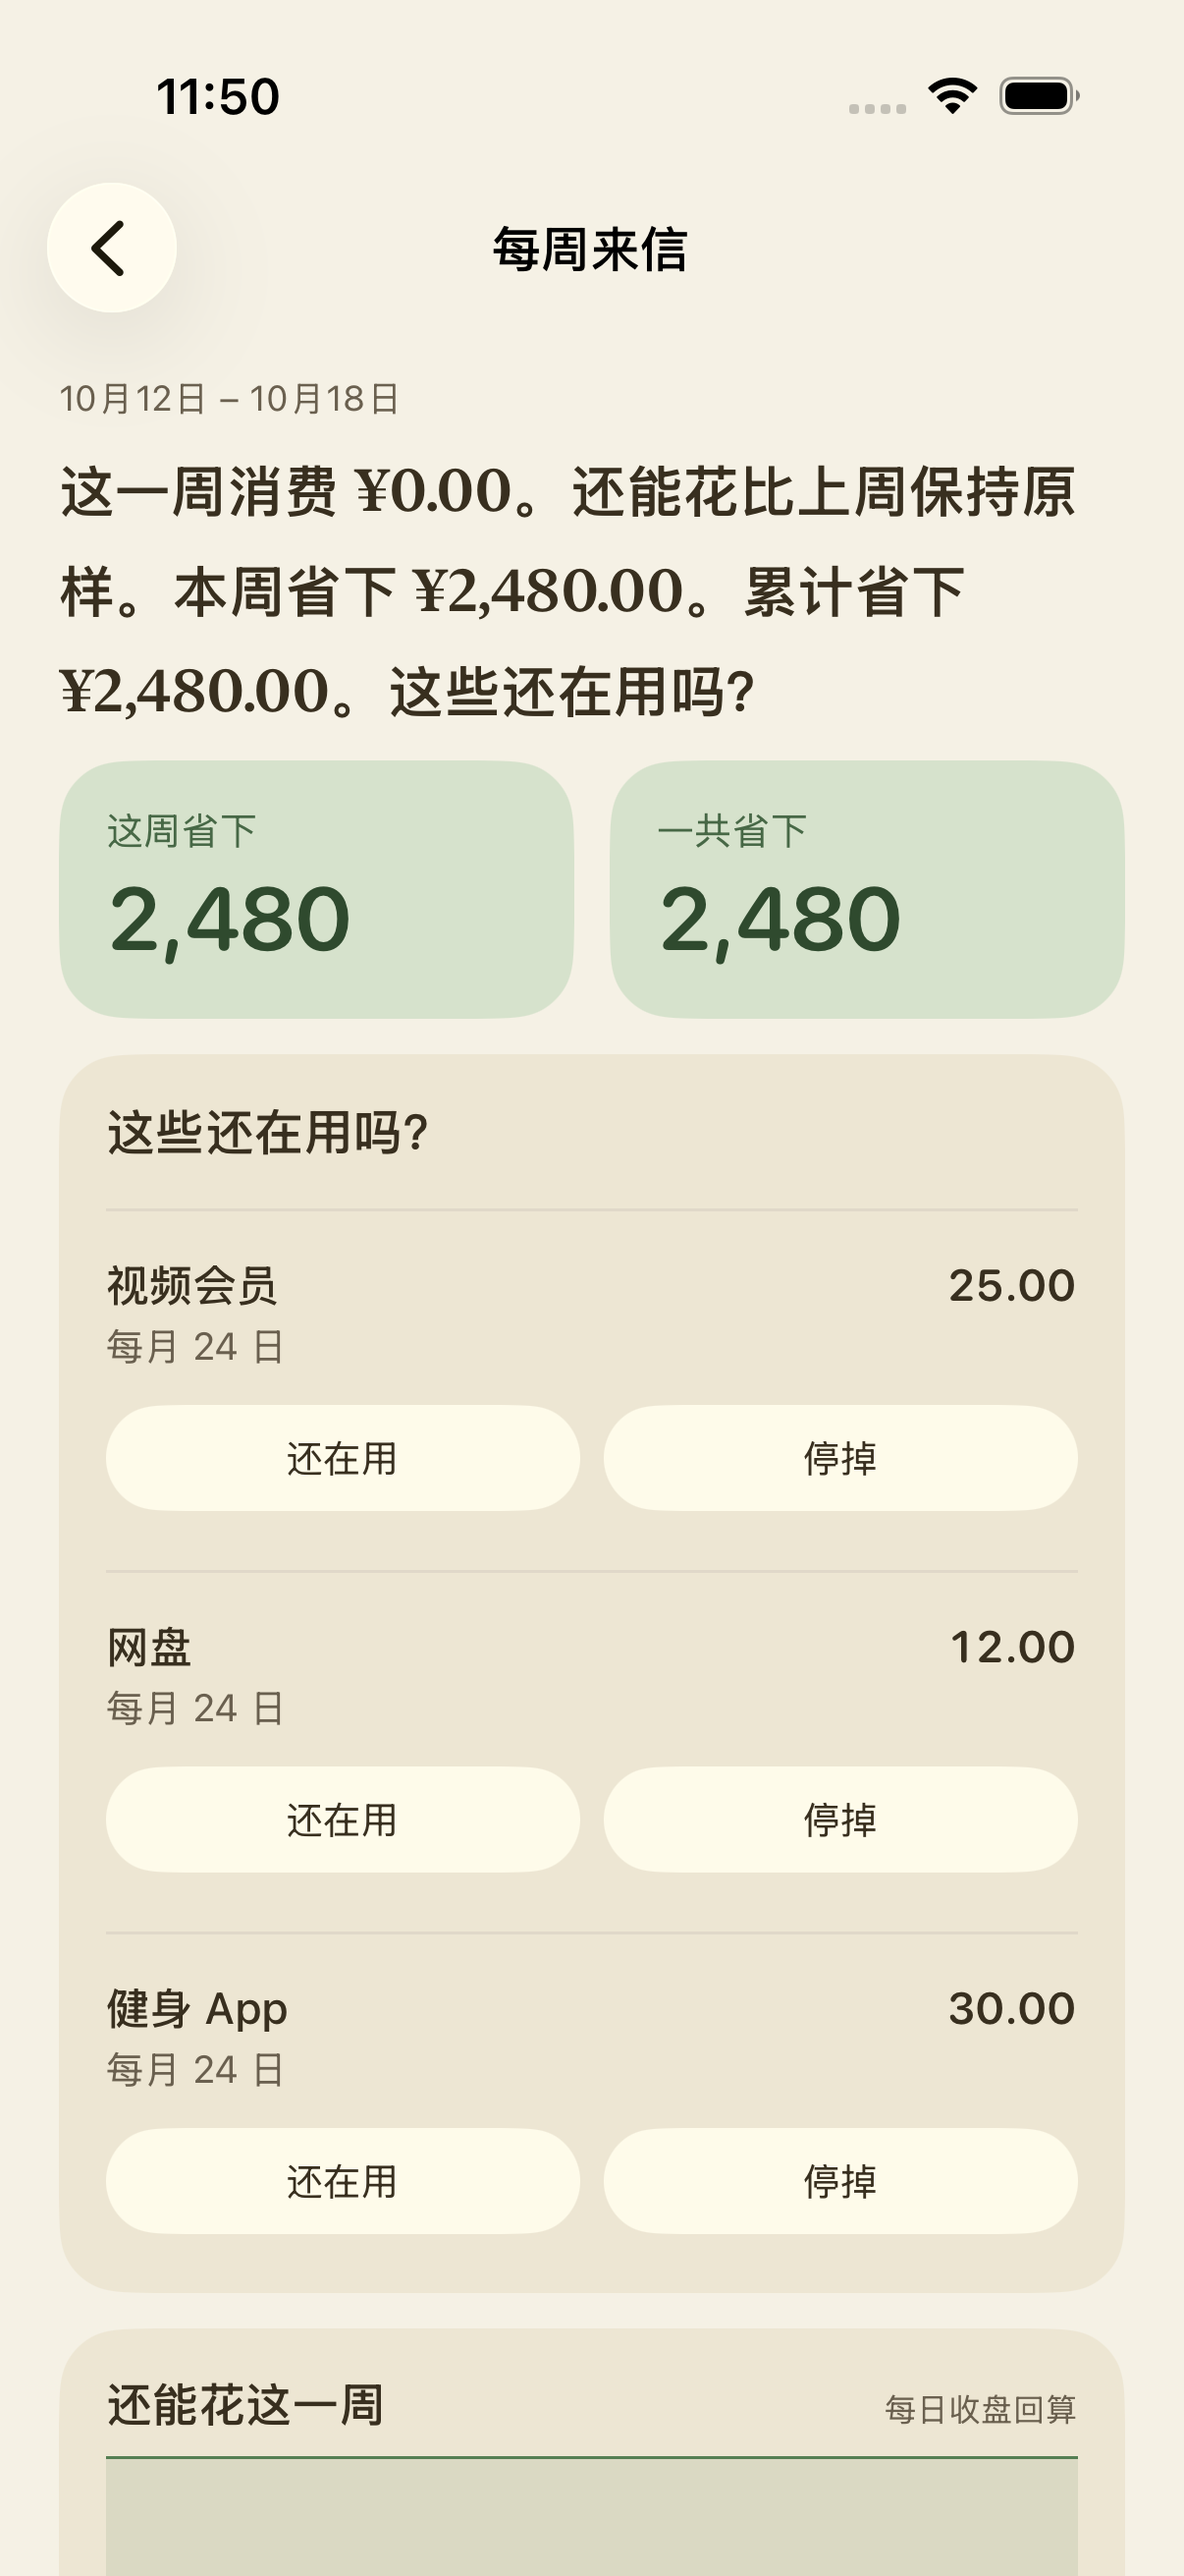
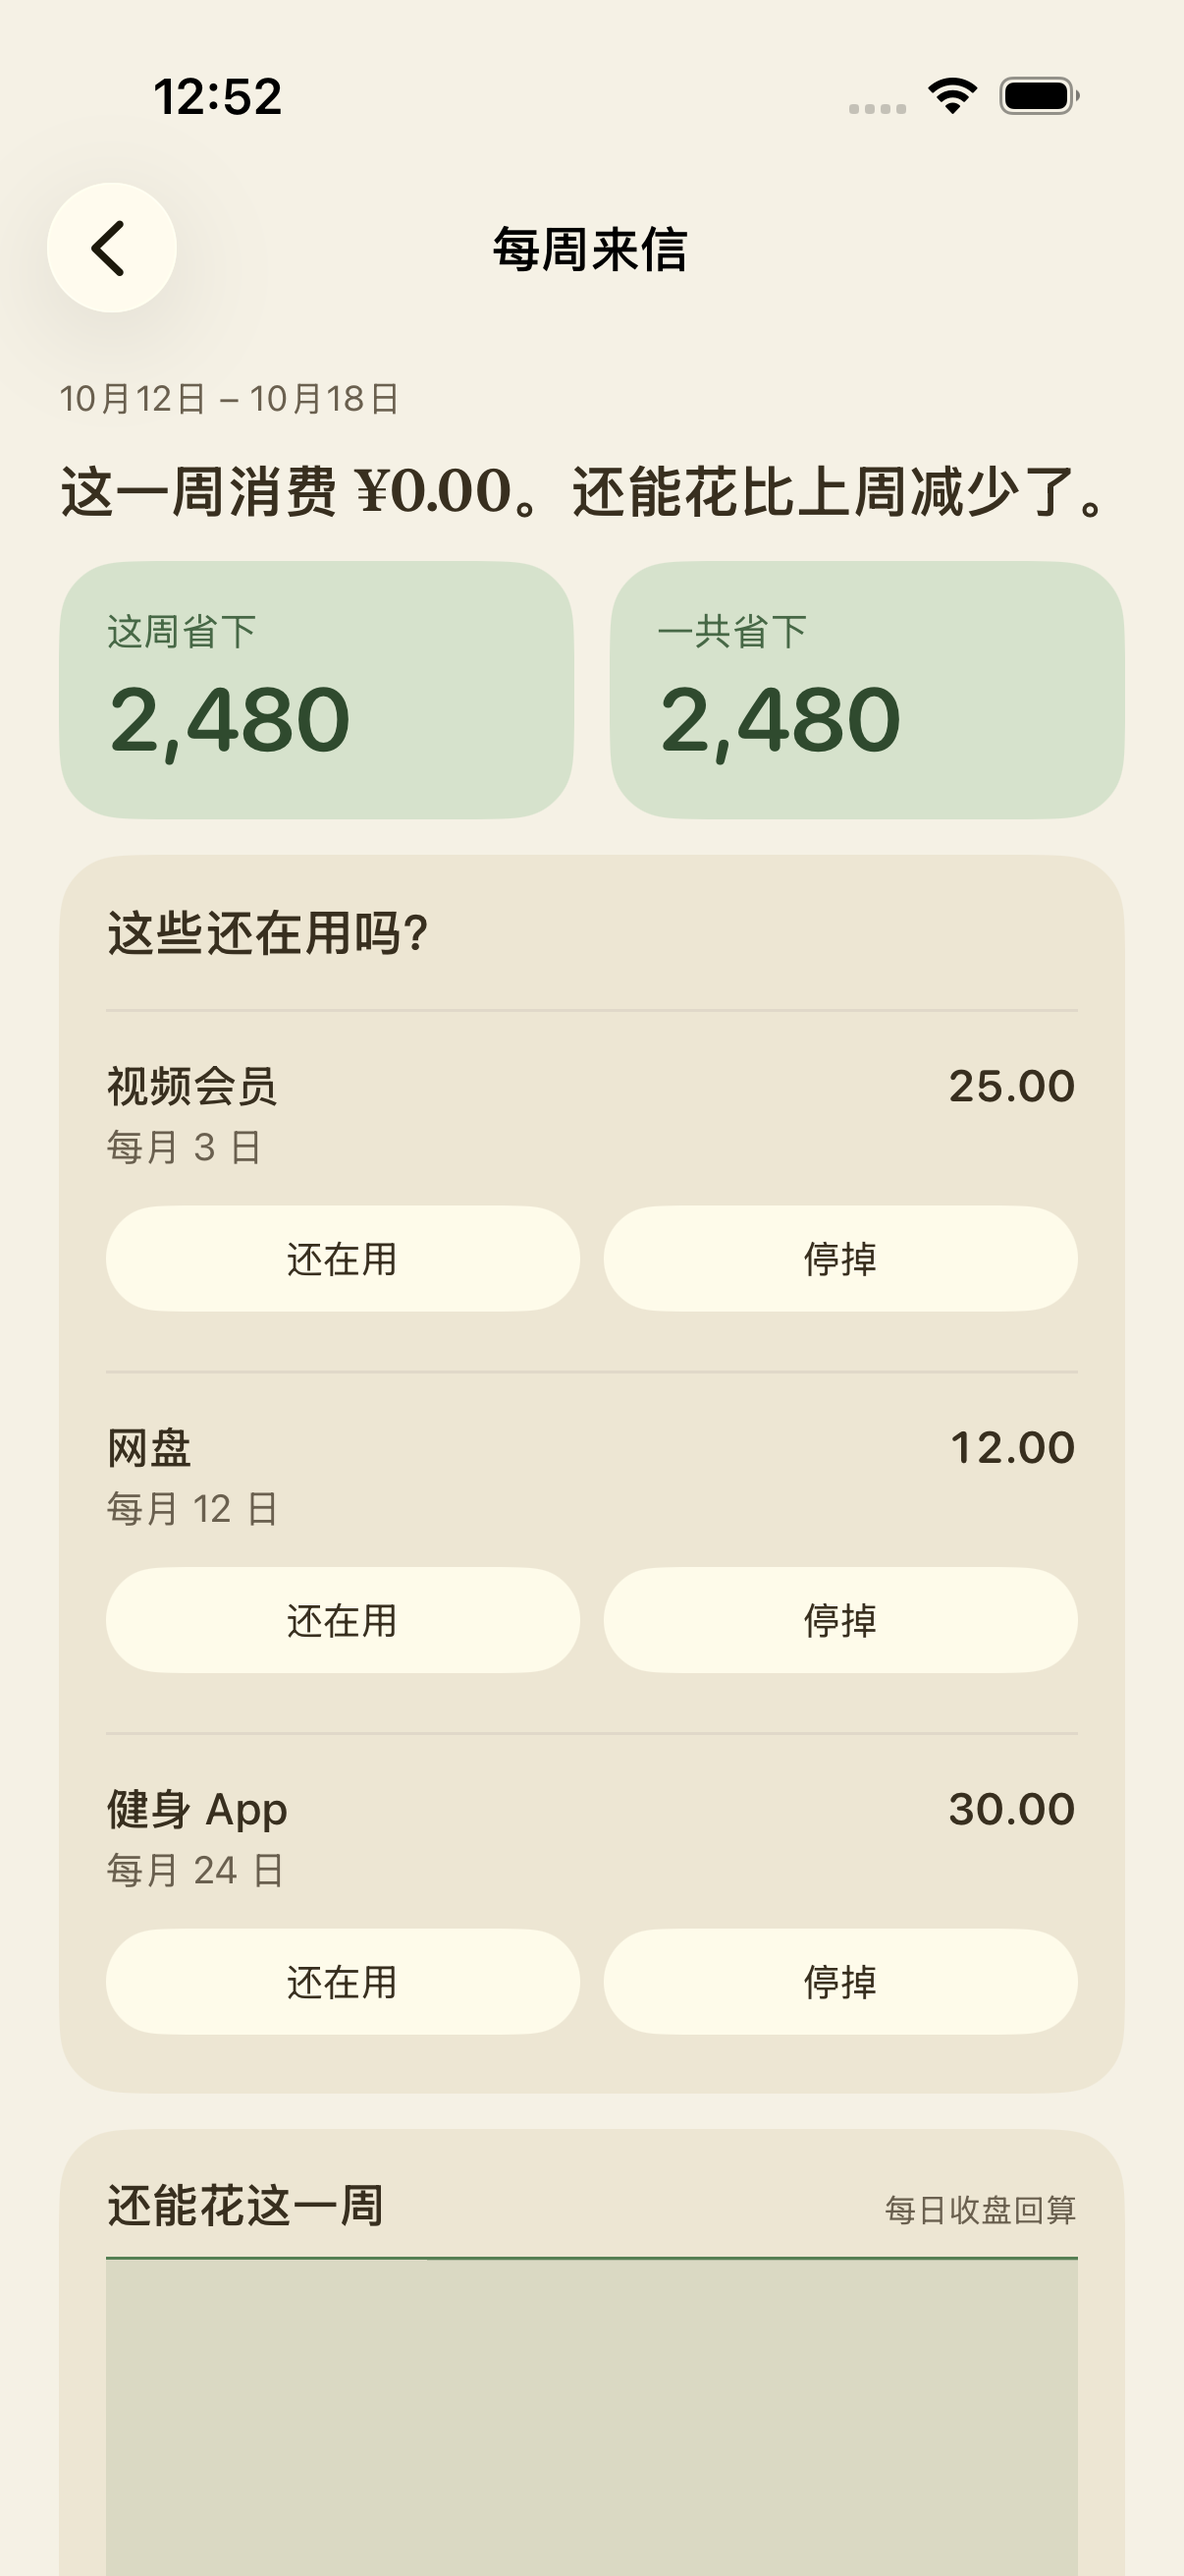
chore: 第十五轮截图更新为 2a51c45

diff --git a/.verification/v15/README.md b/.verification/v15/README.md
@@ -1,6 +1,6 @@
 # 第十五轮截图 · 2026-10-23
 
-feat/butler-saving-core（57ac7bf），Debug，iOS 模拟器 iPhone 17 Pro / iOS 26.4（新建的独立模拟器，避开同时在跑的另一组测试），浅色、默认字号。全部用 UITestSupport 合成夹具与脚本化回复，没有联网、没有调用付费 API。
+feat/butler-saving-core（2a51c45），Debug，iOS 模拟器 iPhone 17 Pro / iOS 26.4（新建的独立模拟器，避开同时在跑的另一组测试），浅色、默认字号。全部用 UITestSupport 合成夹具与脚本化回复，没有联网、没有调用付费 API。
 
 | 文件 | 内容 | 来源 |
 |---|---|---|
@@ -8,11 +8,11 @@ feat/butler-saving-core（57ac7bf），Debug，iOS 模拟器 iPhone 17 Pro / iOS
 | judge-wait | 结论：等等再说 | testJudgeWaitScreenshotFixture |
 | judge-buy | 结论：买吧 | testJudgeBuyScreenshotFixture |
 | judge-skip | 结论：先别买（降噪耳机，差 620） | testJudgeSkipScreenshotFixture |
-| wishlist-cool | 心愿单：省下的、冷静期到期卡、冷静中 | testWishlistCoolScreenshotFixture（测试在第 127 行断言失败时的截图） |
+| wishlist-cool | 心愿单：省下的、冷静期到期卡、冷静中 | testWishlistCoolScreenshotFixture |
 | letter-saving | 每周来信：省下的、这些还在用吗 | testLetterSavingScreenshotFixture |
 | profile-progress | 我的消费观（克制进度） | testProfileRevisitScreenshotFixture |
 | profile-revisit-opening | 再聊页开场 | testProfileRevisitScreenshotFixture |
-| profile-revisit-just-sent | 再聊页点发送后约 0.1 秒 | 测试运行时 simctl 录屏抽帧 |
+| profile-revisit-just-sent | 再聊页点发送后、回复到达前（YUBAI_UI_PROFILE_REPLY_DELAY=3） | testProfileRevisitScreenshotFixture |
 | profile-revisit-reply | 再聊页收到回复后 | testProfileRevisitScreenshotFixture |
 | now-restrain-near | 现在页「外卖 · 本周第 3 次」 | profile-revisit 夹具 simctl 启动后截屏 |
 | subcategory-shopping | 洞察 › 购物 · 本月 小项页 | testSubcategoryScreenshotFixture |
@@ -20,4 +20,4 @@ feat/butler-saving-core（57ac7bf），Debug，iOS 模拟器 iPhone 17 Pro / iOS
 | entry-subcategory-row | 记录详情的分类行 | testSubcategoryScreenshotFixture |
 | subcategory-picker | 小项选择 | testSubcategoryScreenshotFixture |
 
-judge-ask 底部的「Speed up your typing」是新建模拟器第一次弹出键盘时的系统引导，不是余白界面。
+judge-ask 截于三道题出现时；该测试随后在点「就这样回答」时失败（见报告）。
